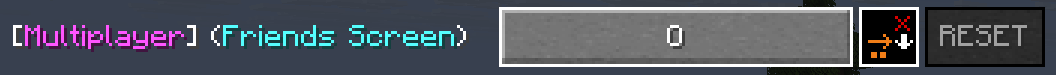
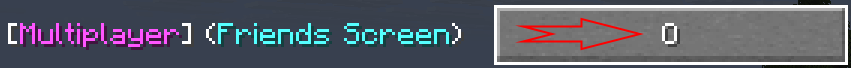
Update README.md

diff --git a/README.md b/README.md
@@ -9,7 +9,7 @@ Tired of fixing keybinds from different Keybind systems?  This is your solution.
 ## DEFAULT HOTKEY: ~~O + C~~ `RIGHT_BRACKET + C`
 
 
-_(The Original of "O + C" Conflicts with 26.2's new "Friends List" Hotkey)_
+_(The Original of "O + C" Conflicts with 26.2's "Friends Screen" Hotkey)_
 
 ![Default-Hotkey](https://github.com/sakura-ryoko/vkm/blob/multi/Default-Hotkey.png?raw=true)
 
@@ -17,6 +17,6 @@ _or optionally access it using the MaLiLib Config Switcher from 1.21+._
 
 ![Conflict-Hotkey](https://github.com/sakura-ryoko/vkm/blob/multi/Conflict-Hotkey.png?raw=true)
 
-_(The conflicting Vanilla keybind)_
+_(The otherwise conflicting Vanilla keybind ...)_
 
 [![Join Sakura's RyokoCraft Discord](https://sakuraryoko.com/files/1398873/discord-300px.png)](https://discord.gg/ryokocraftmc)
